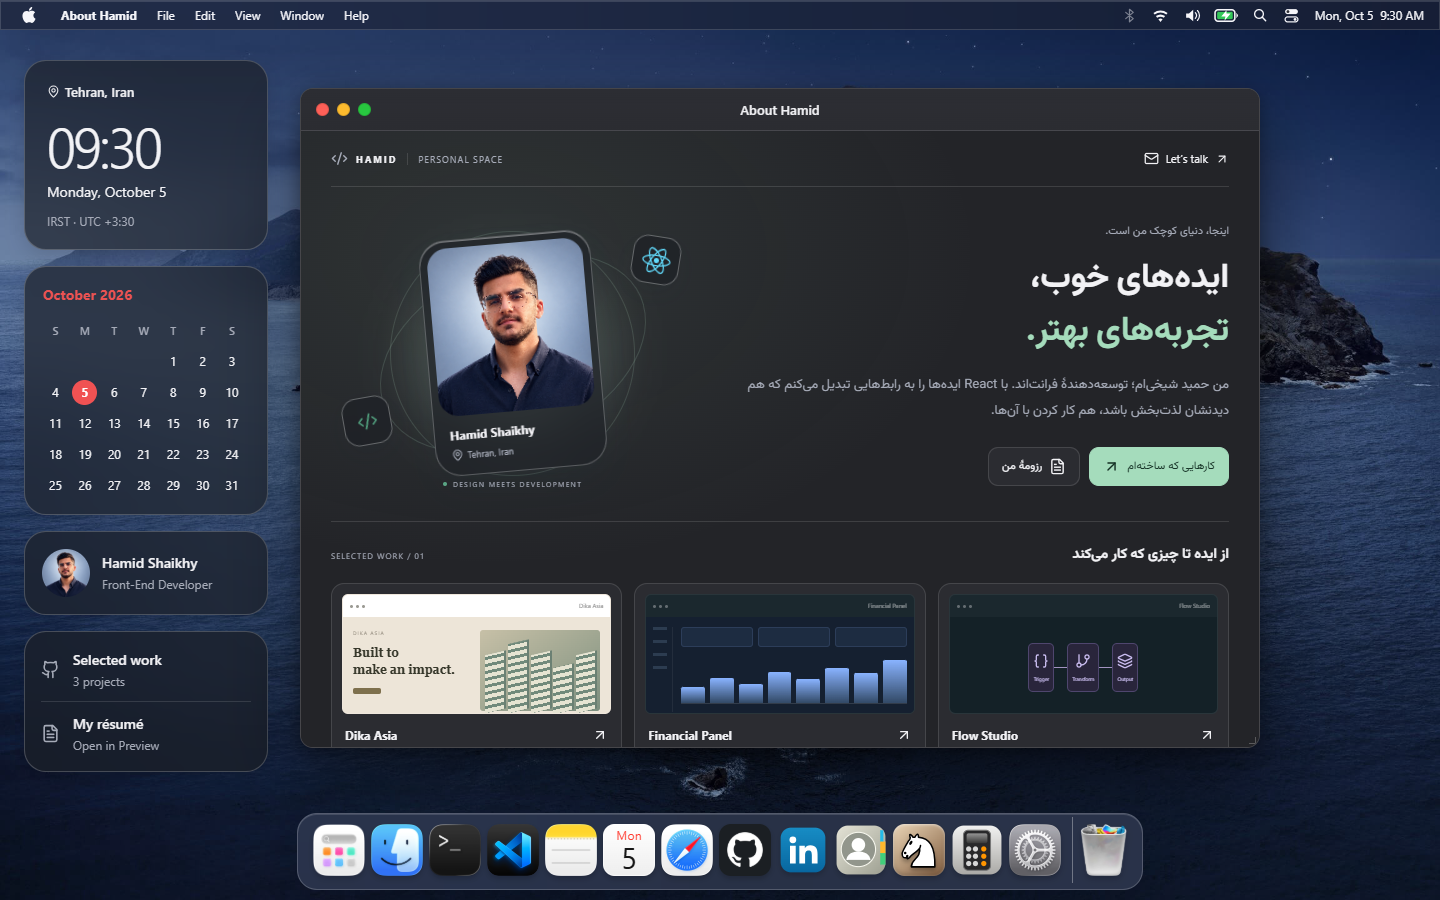
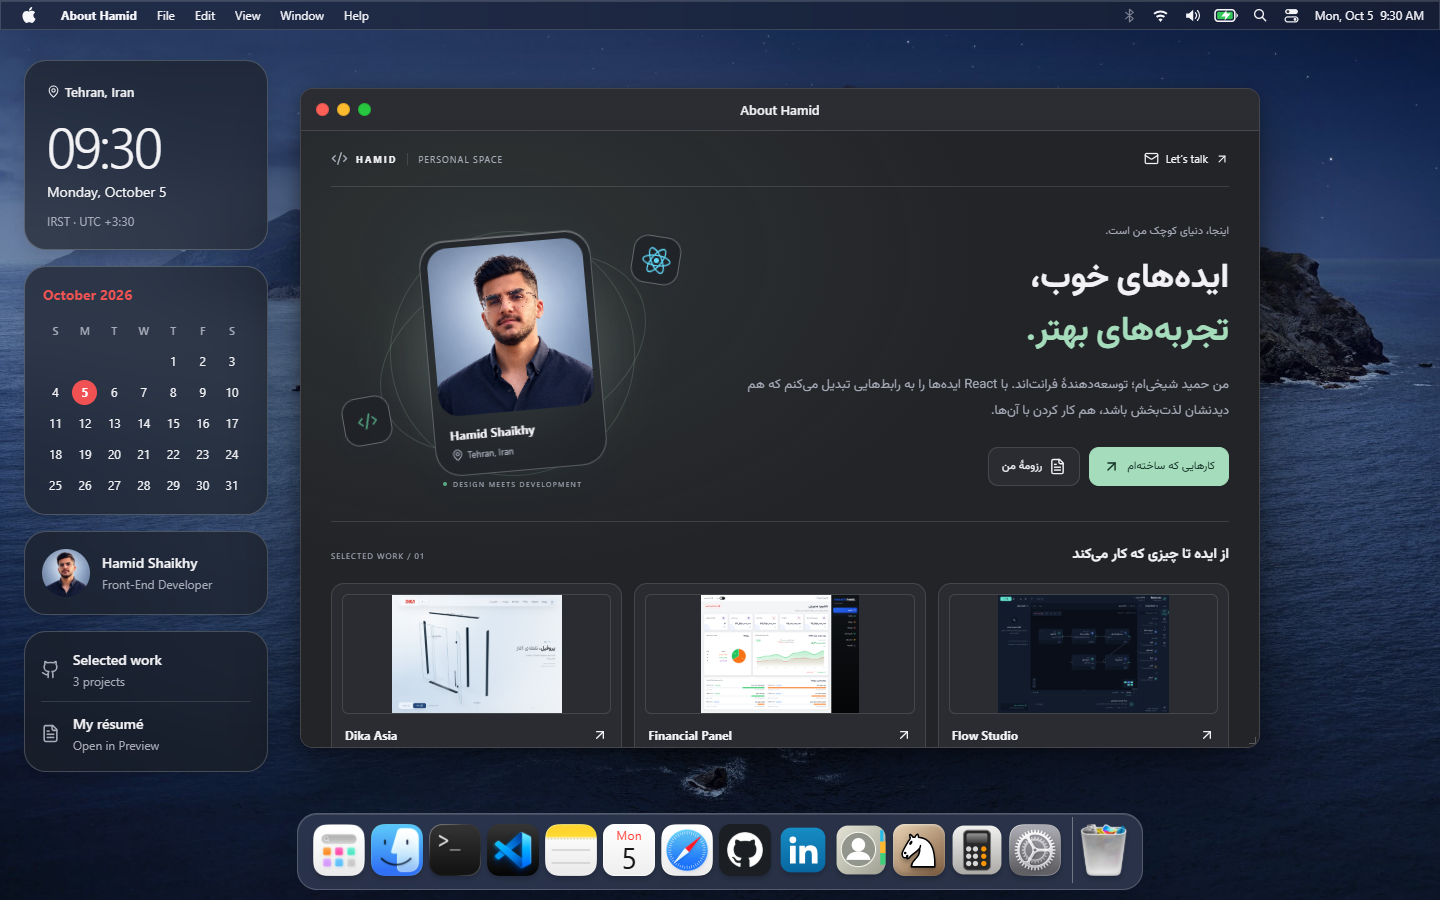
Use real project previews everywhere and refresh README screenshots

Changed region(s): [[0.2188, 0.6533, 0.4375, 0.8089], [0.4688, 0.6533, 0.6562, 0.8089], [0.6875, 0.6533, 0.8438, 0.7778]]

diff --git a/src/portfolio.css b/src/portfolio.css
@@ -77,32 +77,6 @@
 .project-hero > p { font-size:14px; color:var(--muted); margin:0; text-align:left; }
 .project-tech-tags { display:flex; flex-wrap:wrap; gap:6px; margin-top:18px; }
 .project-tech-tags > span { font-size:9px; padding:5px 9px; border-radius:6px; border:1px solid var(--border); color:var(--muted); background:var(--surface-soft); }
-.project-showcase { border-radius:14px; overflow:hidden; padding:17px; background:color-mix(in srgb,var(--project-accent) 12%,var(--surface-soft)); border:1px solid color-mix(in srgb,var(--project-accent) 20%,transparent); }
-.project-showcase .gh-project-preview { margin:0; height:245px; background:#142127; border-color:#ffffff20; box-shadow:0 9px 25px #0002; border-radius:9px; }
-.project-showcase .gh-project-preview-dika { background:#ede5d8; }
-.project-showcase .gh-preview-chrome { padding:10px; gap:4px; }
-.project-showcase .gh-preview-chrome > i { width:5px; height:5px; }
-.project-showcase .gh-preview-chrome > span { font-size:8px; }
-.project-showcase .gh-preview-site { padding:24px; gap:25px; height:215px; }
-.project-showcase .gh-preview-site > div:first-child > span { font-size:9px; margin-bottom:20px; }
-.project-showcase .gh-preview-site strong { font-size:26px; }
-.project-showcase .gh-preview-site > div:first-child > i { width:65px; height:16px; margin-top:20px; border-radius:4px; }
-.project-showcase .gh-preview-building { height:160px; padding:20px 12px 0; gap:8px; }
-.project-showcase .gh-preview-finance { height:215px; padding:20px; gap:20px; }
-.project-showcase .gh-preview-finance > aside { width:48px; padding:10px; }
-.project-showcase .gh-preview-finance > aside > i { height:5px; margin-bottom:20px; }
-.project-showcase .gh-preview-metrics { gap:12px; }
-.project-showcase .gh-preview-metrics > i { height:43px; border-radius:6px; }
-.project-showcase .gh-preview-chart { height:127px; gap:12px; padding-top:20px; }
-.project-showcase .gh-preview-flow { height:215px; gap:0; background-size:14px 14px; }
-.project-showcase .gh-preview-flow > span { padding:24px 12px; gap:15px; font-size:10px; border-radius:8px; }
-.project-showcase .gh-preview-flow svg { width:28px; height:28px; }
-.project-showcase .gh-preview-flow > i { width:35px; }
-.project-showcase > div:last-child { display:flex; justify-content:space-between; gap:10px; padding:13px 1px 0; color:var(--muted); font-size:8px; letter-spacing:.5px; }
-.project-showcase > div:last-child > span:last-child { display:flex; gap:5px; align-items:center; }
-.project-story { padding:27px 0 22px; }
-.project-story-label { font-size:11px; color:var(--project-accent); font-weight:600; }
-.project-story > p { font-size:13px; color:var(--muted); line-height:2.1; margin:10px 0 0; }
 .project-sections { display:grid; grid-template-columns:repeat(3,minmax(0,1fr)); gap:10px; }
 .project-sections > section { border:1px solid var(--border); background:var(--surface-soft); border-radius:12px; padding:16px; }
 .project-sections header { display:flex; align-items:center; gap:7px; color:var(--project-accent); }
@@ -144,18 +118,6 @@
   .portfolio-projects.show-detail .project-detail { display:block; }
   .project-page-top { padding-top:10px; }
   .project-hero h2 { font-size:34px; }
-  .project-showcase { padding:10px; }
-  .project-showcase .gh-project-preview { height:200px; }
-  .project-showcase .gh-preview-site { padding:18px; gap:12px; height:170px; }
-  .project-showcase .gh-preview-site strong { font-size:18px; }
-  .project-showcase .gh-preview-site > div:first-child > span { font-size:7px; margin-bottom:13px; }
-  .project-showcase .gh-preview-site > div:first-child > i { width:42px; height:12px; margin-top:15px; }
-  .project-showcase .gh-preview-building { height:128px; padding:15px 8px 0; gap:5px; }
-  .project-showcase .gh-preview-finance { height:170px; padding:15px; gap:12px; }
-  .project-showcase .gh-preview-chart { height:96px; gap:8px; }
-  .project-showcase .gh-preview-flow { height:170px; padding:8px; }
-  .project-showcase .gh-preview-flow > span { padding:16px 8px; font-size:8px; }
-  .project-showcase .gh-preview-flow > i { width:15px; }
   .project-sections { grid-template-columns:1fr; }
   .project-sections p { font-size:12px; }
   .calendar-cell { padding-top:26px; }

diff --git a/src/project-preview.css b/src/project-preview.css
@@ -1,36 +1,5 @@
-.gh-project-preview { background:#142127; height: 131px; margin: 12px 12px 0; border-radius: 6px; overflow: hidden; border: 1px solid #ffffff17; }
-.gh-preview-chrome { display: flex; gap: 3px; align-items: center; padding: 7px; background: #ffffff08; }
-.gh-preview-chrome i { width: 3px; height: 3px; border-radius: 50%; background: #ffffff50; }
-.gh-preview-chrome > span { font-size: 6px; color: #ffffff70; margin-left: auto; }
-.gh-project-preview-dika { background: #ede5d8; }
-.gh-project-preview-dika .gh-preview-chrome { background: #ffffff; }
-.gh-project-preview-dika .gh-preview-chrome i { background: #9c9b94; }
-.gh-project-preview-dika .gh-preview-chrome span { color: #888; }
-.gh-preview-site { display: grid; grid-template-columns: 1fr 1fr; padding: 13px 10px; gap: 6px; }
-.gh-preview-site > div:first-child > span { display: block; font-size: 5px; color: #837b6e; letter-spacing: 1px; margin-bottom: 9px; }
-.gh-preview-site strong { display: block; font-size: 10px; color: #37382b; line-height: 1.4; font-family: Georgia, serif; }
-.gh-preview-site > div:first-child > i { display: block; width: 28px; height: 6px; border-radius: 2px; background: #7e704d; margin-top: 9px; }
-.gh-preview-building { display: flex; gap: 4px; padding: 11px 5px 0; background: linear-gradient(145deg,#c7c0a7,#7c8f7e); border-radius: 3px; height: 81px; align-items: flex-end; }
-.gh-preview-building i { flex: 1; height: 83%; background: repeating-linear-gradient(0deg,#e6e4d2 0 4px,#718a7b 4px 7px); transform: skewY(-13deg); box-shadow: 2px 0 0 #6b8073; }
-.gh-preview-building i:nth-child(2) { height: 99%; }
-.gh-preview-building i:nth-child(4) { height: 65%; }
-.gh-preview-finance { display: flex; height: 105px; padding: 10px 7px; gap: 8px; }
-.gh-preview-finance > aside { width: 20px; border-right: 1px solid #ffffff0f; padding-right: 5px; }
-.gh-preview-finance > aside i { display: block; height: 3px; background: #718eae40; margin-bottom: 10px; }
-.gh-preview-finance > main { flex: 1; min-width: 0; }
-.gh-preview-metrics { display: flex; gap: 5px; }
-.gh-preview-metrics i { flex: 1; height: 20px; border-radius: 3px; background: #6495df19; border: 1px solid #91baff20; }
-.gh-preview-chart { display: flex; align-items: flex-end; gap: 5px; height: 57px; padding-top: 10px; border-bottom: 1px solid #ffffff20; }
-.gh-preview-chart i { flex: 1; border-radius: 2px 2px 0 0; background: linear-gradient(#89b3ff,#577eab70); }
-.gh-preview-finance { background: #152030; }
-.gh-preview-flow { display: flex; justify-content: center; align-items: center; height: 100px; padding: 10px; background-image: radial-gradient(#ffffff18 .5px,transparent .5px); background-size: 8px 8px; }
-.gh-preview-flow > span { display: flex; flex-direction: column; align-items: center; gap: 7px; padding: 9px 4px; background: #29253b; border: 1px solid #a793e64d; border-radius: 5px; color: #c9bcef; font-size: 5px; }
-.gh-preview-flow > i { height: 1px; width: 13px; background: #a293c0; }
-
+.gh-project-preview { background:var(--surface-soft); height:131px; margin:12px 12px 0; border-radius:6px; overflow:hidden; border:1px solid var(--border); }
+.gh-project-preview > img { display:block; width:100%; height:100%; object-fit:contain; }
 @media(max-width:700px) {
-  .gh-project-preview { height: 150px; }
-  .gh-preview-site { max-width: 240px; margin: auto; }
-  .gh-preview-finance { height: 125px; padding: 15px; }
-  .gh-preview-chart { height: 68px; }
-  .gh-preview-flow { height: 126px; }
+  .gh-project-preview { height:150px; }
 }

diff --git a/src/lib/project-studies.ts b/src/lib/project-studies.ts
@@ -15,9 +15,9 @@ export const projectStudies: Record<string, ProjectStudy> = {
     highlights: ["روایت سهبعدی با اسکرول", "پروژههای واقعی شرکت", "رابط چندزبانه و RTL"],
     shots: [
       { file: "structure.png", title: "جزئیات سازه در سهبعد", description: "پروفیل، ریل و شیشه در یک نمای تفکیکشده؛ معرفی محصول فراتر از یک تصویر ثابت." },
-      { file: "assembly.png", title: "از اجزا تا سیستم کامل", description: "روایت تصویری مونتاژ پارتیشن در امتداد اسکرول؛ فرم، اتصال و متریال در کنار هم." },
+      { file: "products.png", title: "محصولات و جزئیات فنی", description: "فهرست دستهبندیشدهٔ محصولات؛ دستگیره و قفل درب شیشهای همراه تصویر و توضیحات." },
       { file: "projects.png", title: "آرشیو پروژههای اجراشده", description: "نمونههای واقعی اجرا، تصاویر معماری و مسیر ورود به جزئیات هر پروژه." },
-      { file: "project-detail.png", title: "یک پروژه، از نزدیک", description: "صفحهٔ پروژهٔ کارگزاری آگاه؛ ارائهٔ تصاویر و اطلاعات اجرای پارتیشن در فضای واقعی." },
+      { file: "roche-pars.png", title: "یک پروژه، از نزدیک", description: "صفحهٔ پروژهٔ شرکت دارویی رش پارس؛ گالری کامل تصاویر و مشخصات اجرای پارتیشن." },
     ],
   },
   finance: {

diff --git a/src/components/ProjectPreview.tsx b/src/components/ProjectPreview.tsx
@@ -1,17 +1,11 @@
-import { Braces, GitBranch, Layers } from "lucide-react";
 import type { Project } from "../lib/content";
+import { projectStudies } from "../lib/project-studies";
+import { asset } from "../lib/assets";
 
 export function ProjectPreview({ project }: { project: Project }) {
   return (
-    <div className={"gh-project-preview gh-project-preview-" + project.id} aria-hidden="true">
-      <div className="gh-preview-chrome"><i /><i /><i /><span>{project.title}</span></div>
-      {project.id === "dika" ? (
-        <div className="gh-preview-site"><div><span>DIKA ASIA</span><strong>Built to<br />make an impact.</strong><i /></div><div className="gh-preview-building"><i /><i /><i /><i /><i /></div></div>
-      ) : project.id === "finance" ? (
-        <div className="gh-preview-finance"><aside><i /><i /><i /><i /></aside><main><div className="gh-preview-metrics"><i /><i /><i /></div><div className="gh-preview-chart">{[35, 55, 42, 68, 52, 78, 65, 94].map((h, i) => <i key={i} style={{ height: h + "%" }} />)}</div></main></div>
-      ) : (
-        <div className="gh-preview-flow"><span><Braces size={16} /> Trigger</span><i /><span><GitBranch size={16} /> Transform</span><i /><span><Layers size={16} /> Output</span></div>
-      )}
+    <div className={"gh-project-preview gh-project-preview-" + project.id}>
+      <img src={asset(`assets/projects/${project.id}/${projectStudies[project.id].shots[0].file}`)} alt={`${project.title} — actual project screenshot`} decoding="async" />
     </div>
   );
 }

diff --git a/README.md b/README.md
@@ -36,7 +36,7 @@ macfolio پورتفولیوی **Hamid Shaikhy / حمید شیخی**، توسعه
 
 ## گالری تصاویر
 
-تصاویر زیر با مرورگر از **خود برنامه** ثبت شدهاند. روی هر تصویر بزنید تا نسخهٔ کامل را ببینید. پیشنمایشهای کوچکِ داخل کارت پروژهها، تصویرسازی رابط هستند.
+تصاویر زیر با مرورگر از **خود برنامه** ثبت شدهاند. روی هر تصویر بزنید تا نسخهٔ کامل را ببینید. کارتها و گالری پروژهها از اسکرینشاتهای واقعی محصولات استفاده میکنند.
 
 ### دسکتاپ؛ روشن و تیره
 
@@ -52,6 +52,16 @@ GitHub یک صفحهٔ داخلی با معرفی، لوگوی ابزارها و
 | :---: | :---: |
 | [<img src="docs/screenshots/github-desktop.png" alt="پروفایل داخلی GitHub، ابزارها و پروژههای منتخب" width="700">](docs/screenshots/github-desktop.png) | [<img src="docs/screenshots/projects-desktop.png" alt="صفحهٔ Dika Asia با پیشنمایش رابط و توضیحات پروژه" width="700">](docs/screenshots/projects-desktop.png) |
 | معرفی و ابزارها، در یک پنجرهٔ مستقل | پیشنمایش رابط، انتخاب پروژه و شرح کار |
+
+پیشنمایشهای About و GitHub و گالری پروژهها همگی تصویر واقعی محصول را نشان میدهند. هر پروژه چهار نما دارد؛ تصاویر دیکا از سایت آنلاین و تصاویر پنل مالی و Flow Studio از مستندات همان پروژهها ثبت شدهاند.
+
+| پروژهها در About | پروژهها در GitHub |
+| :---: | :---: |
+| [<img src="docs/screenshots/about-projects-desktop.png" alt="کارتهای پروژه با اسکرینشات واقعی در About" width="700">](docs/screenshots/about-projects-desktop.png) | [<img src="docs/screenshots/github-projects-desktop.png" alt="پروژههای منتخب GitHub با تصاویر واقعی" width="700">](docs/screenshots/github-projects-desktop.png) |
+
+| Dika Asia | Financial Panel | Flow Studio |
+| :---: | :---: | :---: |
+| [<img src="docs/screenshots/projects-gallery-desktop.png" alt="گالری واقعی دیکا، سازهٔ سهبعدی و صفحات محصولات و پروژهها" width="460">](docs/screenshots/projects-gallery-desktop.png) | [<img src="docs/screenshots/finance-project-desktop.png" alt="گالری رابط واقعی پنل مدیریت مالی" width="460">](docs/screenshots/finance-project-desktop.png) | [<img src="docs/screenshots/flow-project-desktop.png" alt="گالری بوم واقعی ساخت گردشکار Flow Studio" width="460">](docs/screenshots/flow-project-desktop.png) |
 
 ### ابزارهای کوچک، جزئیات کاربردی
 
